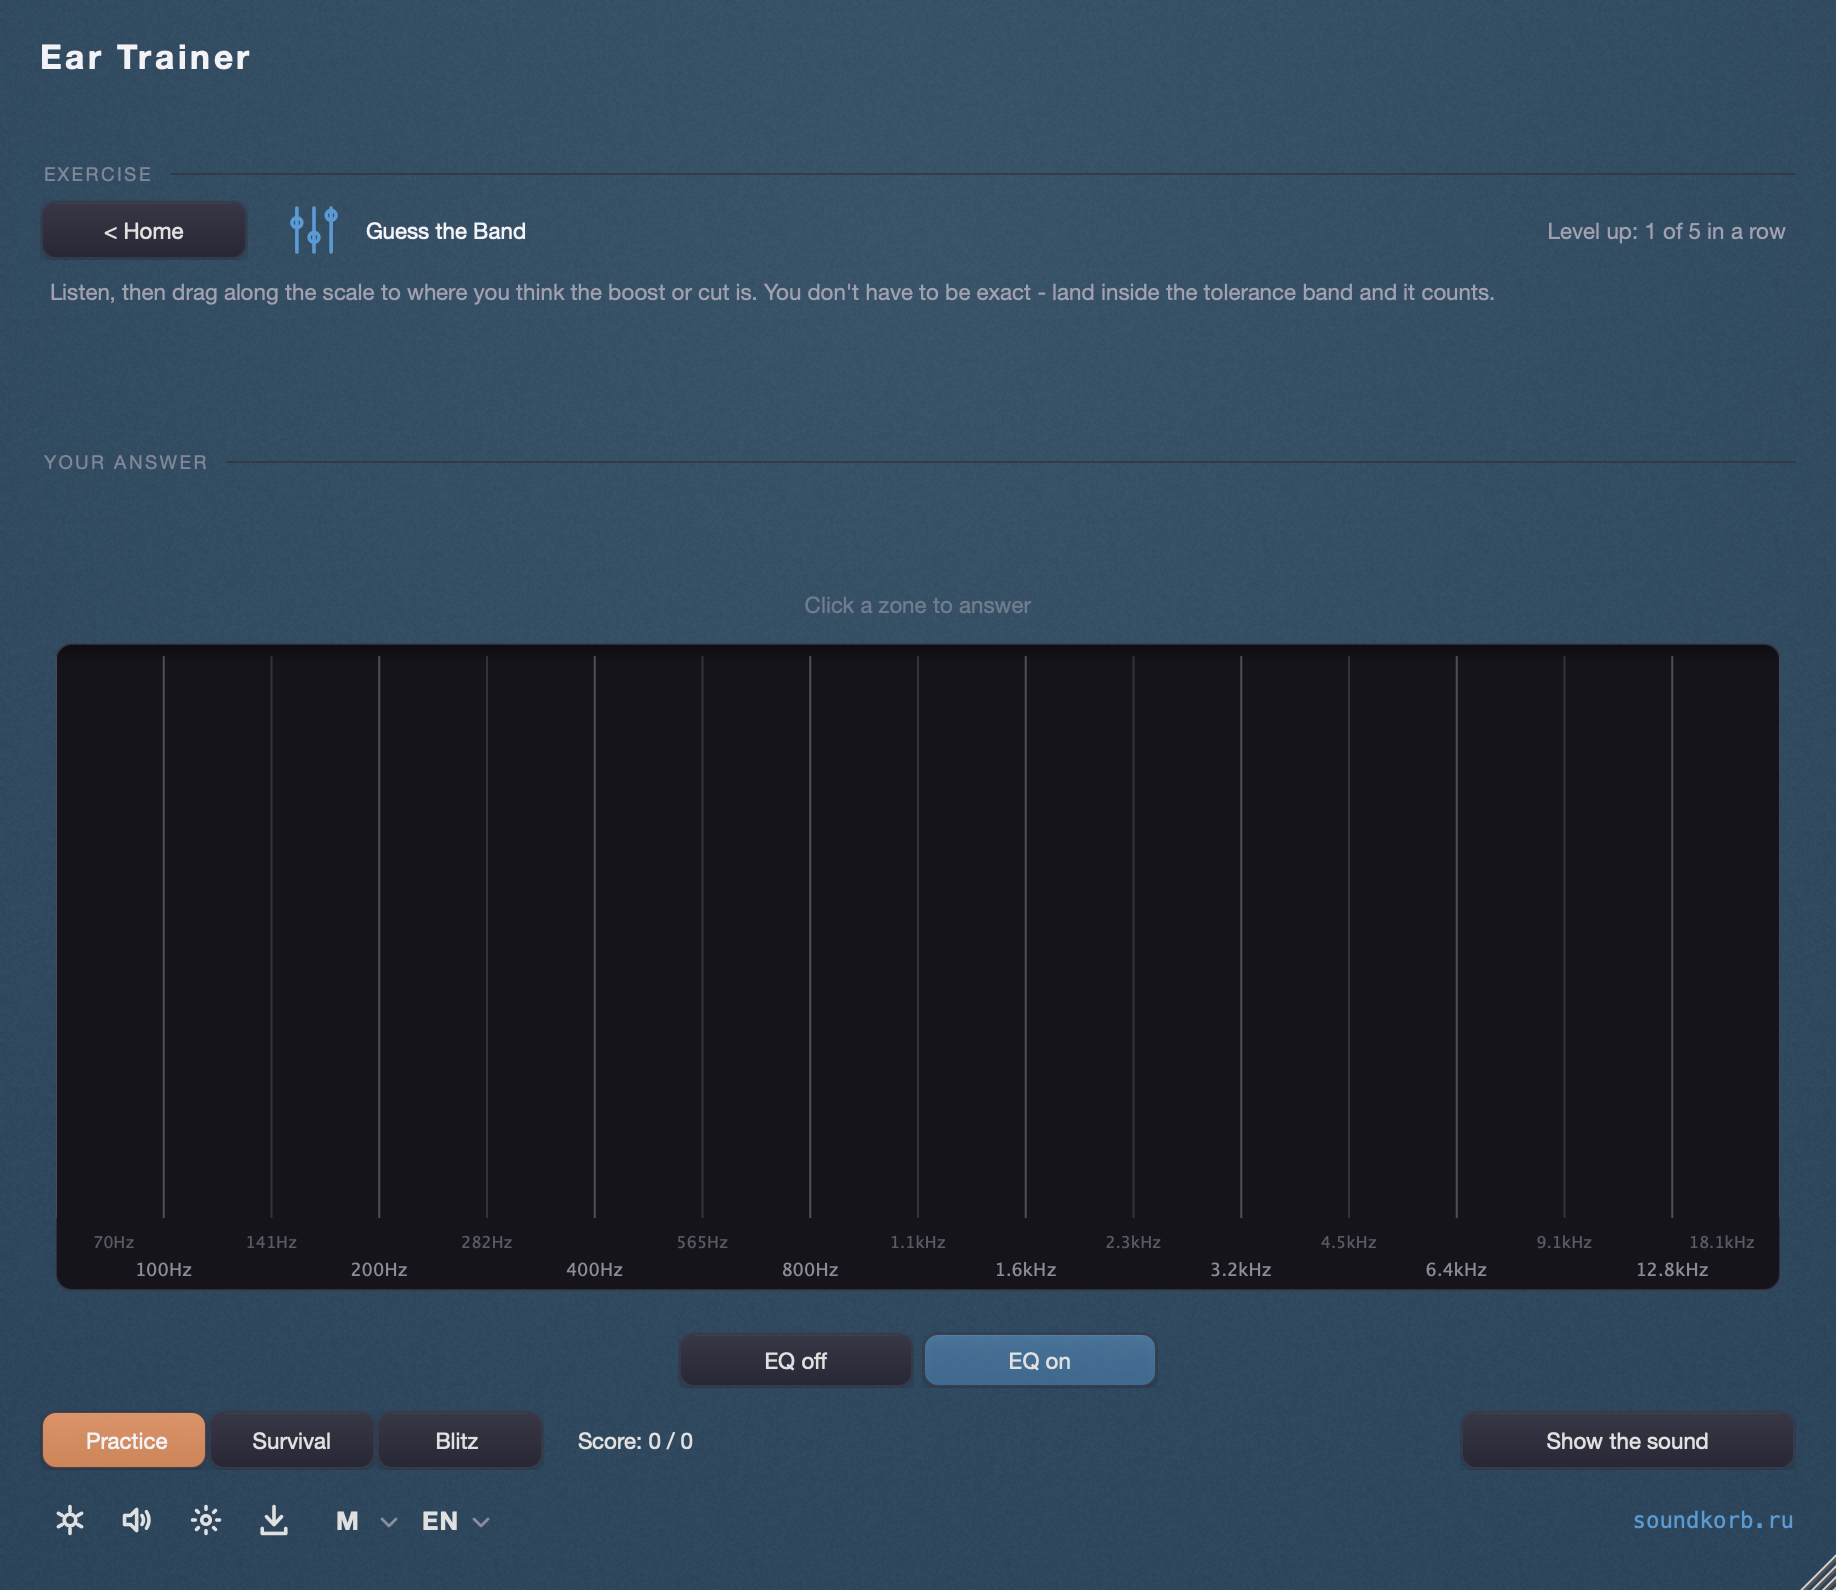
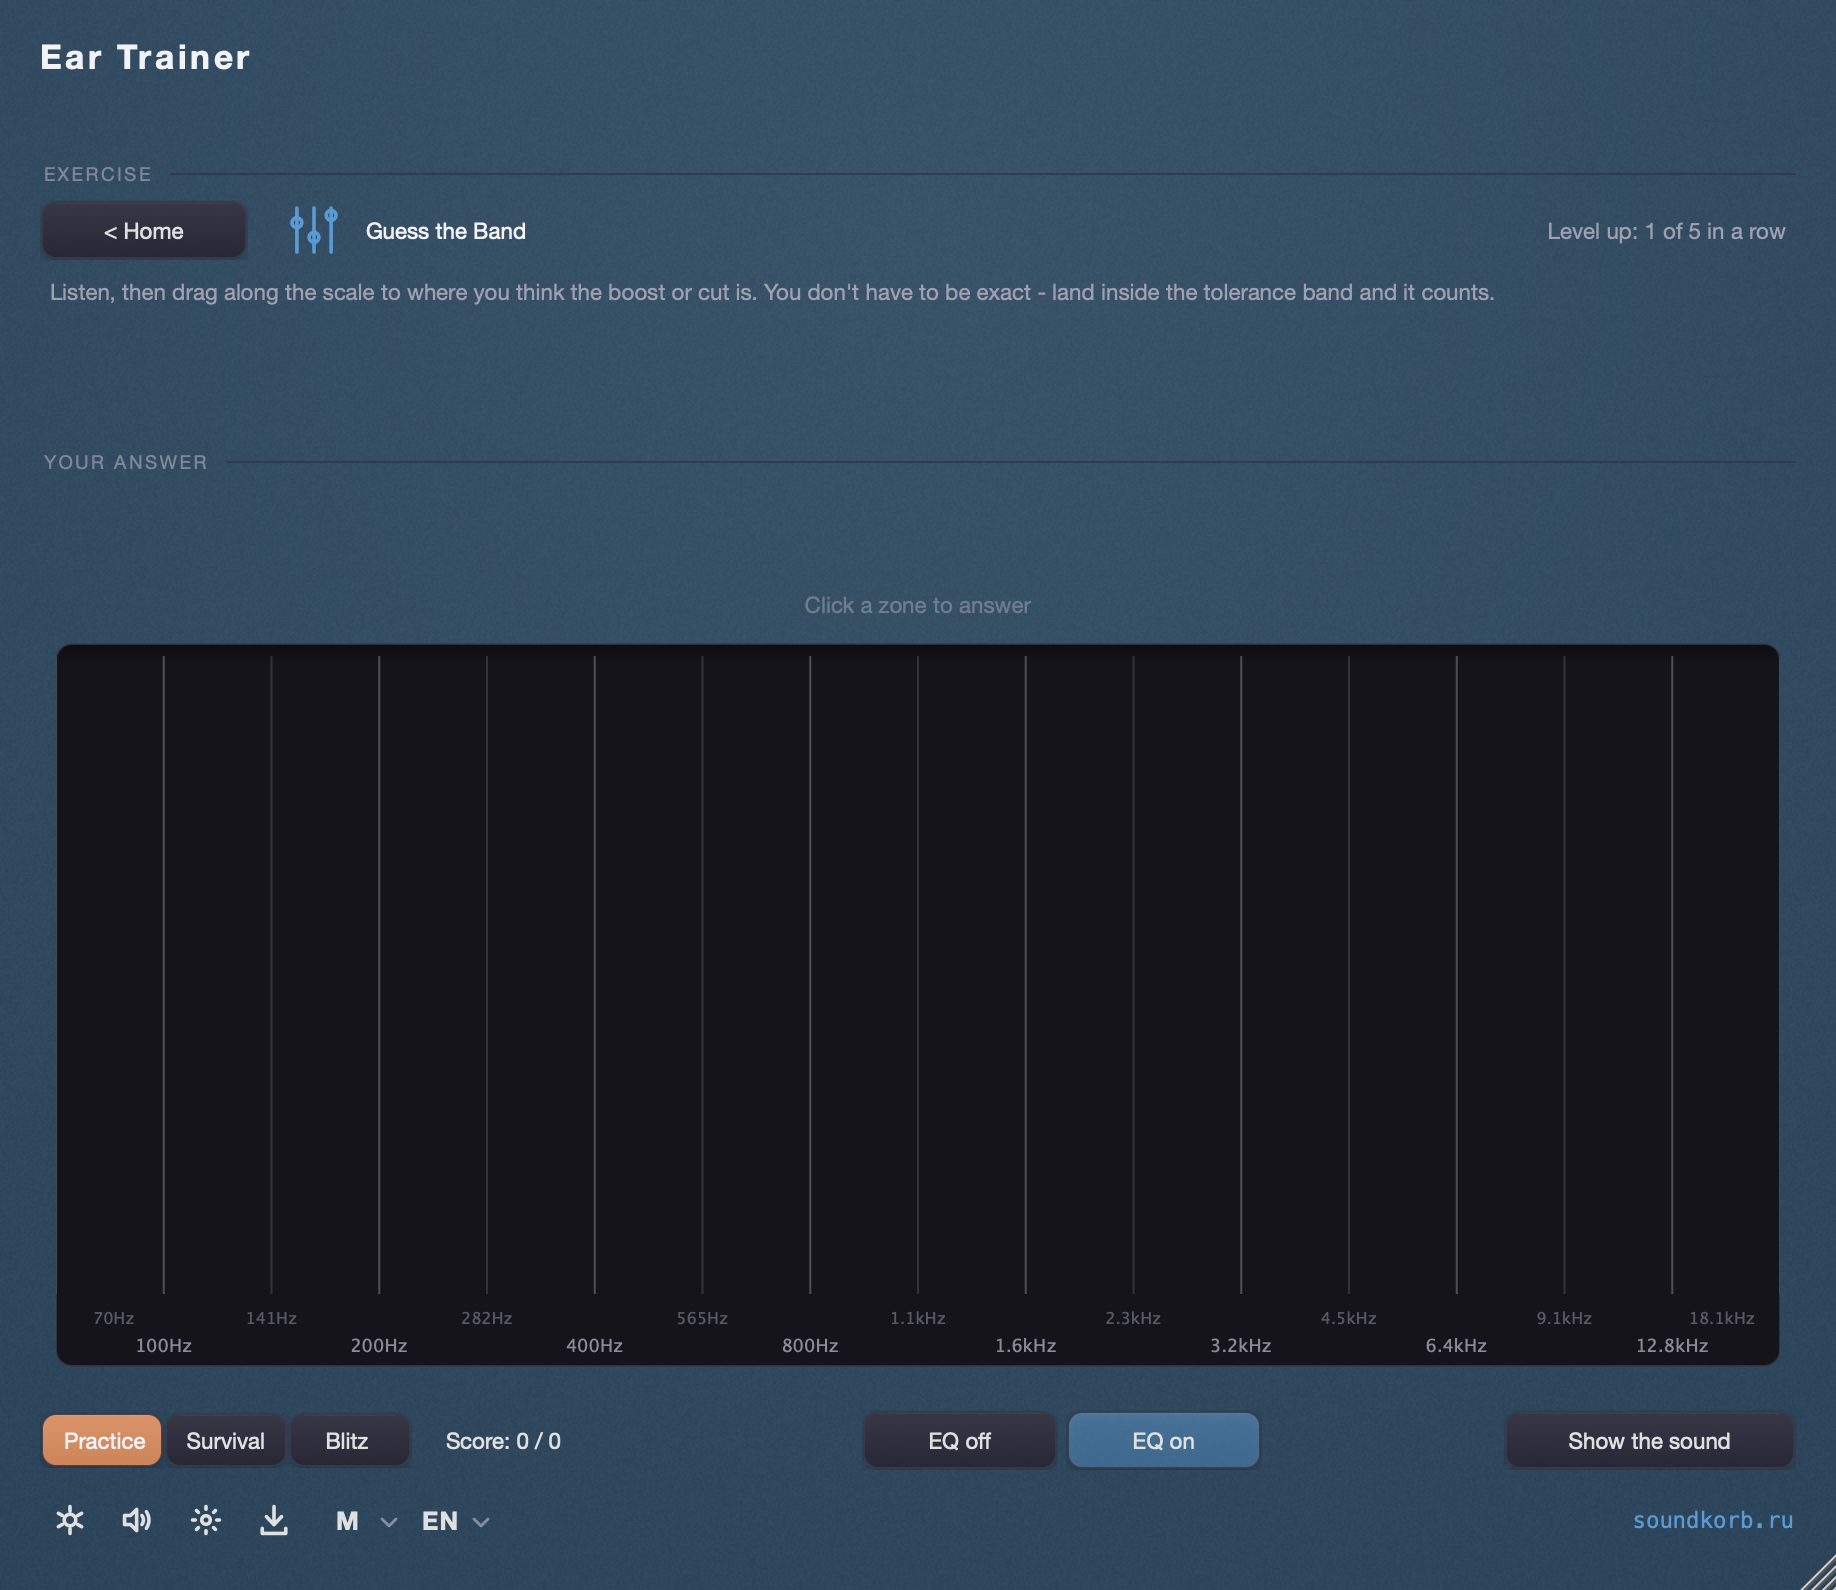
A/B and the modes share one row
They had a row each, which made five levels of importance on a screen that
should have four - and the two rows were the same subject anyway: how this
round is being played. One row now: mode pills and the score on the left,
A/B centred directly under the scale it compares, the hint on the right.

Getting five groups into 640 pixels took two honest concessions and one
fix. Narrower pills and a narrower hint button, and the lives/clock
readout no longer reserves width when it has nothing to say - holding 86px
for an empty label in Practice is what pushed "EQ on" underneath "Show the
sound". refreshRunStatus now calls resized() when that emptiness changes,
because otherwise switching to Survival wrote "3 lives" into a
zero-width box.

The fix: the A/B pair had a minimum width wider than the space left over,
and a minimum wider than the space is not a minimum - it is an overlap.
It takes what is there, capped rather than floored.

One thing I tried and backed out of: moving the score up beside the level
progress in the header. It vanished, I could not see why from the render,
and I was not going to keep guessing at an invisible label - so the score
stayed in the control row where it is verifiably on screen. Recorded
because "it looked cleaner in principle" is not a reason to ship
something I could not confirm.

Changed region(s): [[0.031, 0.7704, 0.9935, 0.9245], [0.031, 0.8937, 0.3725, 0.9245], [0.7761, 0.8937, 0.9314, 0.9245]]

diff --git a/Source/PluginEditor.cpp b/Source/PluginEditor.cpp
@@ -906,54 +906,74 @@ void EarTrainerEditor::resized()
         feedbackLabel.setBounds (inner.removeFromTop (24));
         inner.removeFromTop (Spacing::tight);
 
-        // The rows under the scale are taken off the *bottom* first, so the
-        // scale can then have everything between. Laying them out top-down
-        // with fixed heights is what left a tall window with a strip of
-        // controls and a field of nothing under it.
-        auto bottomRow = inner.removeFromBottom (34);
-        inner.removeFromBottom (Spacing::small);
-        auto abRow = inner.removeFromBottom (30);
+        // *One* row under the scale, not two.
+        //
+        // A/B sat on its own row and the mode pills on another, which made
+        // five levels of importance on a screen that should have four - and
+        // the two are the same kind of thing anyway: how this round is being
+        // played. Narrower pills and a narrower hint button pay for it.
+        //
+        // Taken off the bottom first so the scale can then have everything
+        // between. Laying these out top-down with fixed heights is what left
+        // a tall window with a strip of controls and a field of nothing
+        // under it.
+        auto controlRow = inner.removeFromBottom (34);
         inner.removeFromBottom (Spacing::medium);
 
-        // The scale needs real height to read as a panel of zones rather
-        // than a thin strip: 40px of it is the value readout and 18px the
-        // caption, so anything under ~120 leaves the zones too shallow to
-        // fit staggered labels. Found by building it at 92 and looking.
-        // Taller than the 150 it started at: the zoned panel is the thing
-        // you actually work with on this screen, and the space came from
-        // padding that was doing nothing.
         // Everything that is left, floored at the height the zones need to
-        // stay legible. This is the control the screen exists for, so it is
-        // the one that should get the room - a taller scale is a more
-        // precise scale, and there is nothing else here that improves by
-        // being taller.
+        // stay legible: 40px of the scale is its value readout and 18 the
+        // caption, so under ~120 the zones are too shallow for staggered
+        // labels. This is the control the screen exists for, so it is the
+        // one that should get the room - a taller scale is a more precise
+        // scale, and nothing else here improves by being taller.
         choiceSlider.setBounds (inner.withHeight (juce::jmax (186, inner.getHeight()))
                                      .reduced (Spacing::small, 0));
 
-        // A/B on its own centred row under the scale.
         {
-            auto centred = abRow.withSizeKeepingCentre (240, 28);
-            restartButton.setBounds (centred.withSizeKeepingCentre (160, 28));
+            // Modes left, narrow and quiet: chosen once a session. The hint
+            // right, where a choice you spend something on belongs. A/B in
+            // the middle, directly under the scale it compares - it is the
+            // control touched most often, so it gets the centre.
+            const auto pillWidth = 62;
 
-            beforeButton.setBounds (centred.removeFromLeft (118));
+            for (auto* pill : { &practiceButton, &survivalButton, &blitzButton })
+                pill->setBounds (controlRow.removeFromLeft (pillWidth)
+                                     .withSizeKeepingCentre (pillWidth, 28));
+
+            // Score and the lives/clock readout ride along with the modes:
+            // they say how *this* run is going, which is the same subject
+            // the pills set.
+            controlRow.removeFromLeft (Spacing::medium);
+            scoreLabel.setBounds (controlRow.removeFromLeft (92));
+
+            // Only reserve width for the lives/clock readout when there is
+            // one. In Practice there is nothing to report, and holding 86px
+            // for an empty label is what pushed A/B into the hint button -
+            // five groups do not fit in this row at the design width unless
+            // the empty one gives its space back.
+            runStatusLabel.setBounds (runStatusLabel.getText().isNotEmpty()
+                                          ? controlRow.removeFromLeft (78)
+                                          : juce::Rectangle<int>());
+
+            // The hint used to be a 30px glyph with a caption beside it, and
+            // the glyph read as a "no entry" sign - so the one control you
+            // reach for when stuck looked disabled and unlabelled. It is one
+            // button now, with its price written on it.
+            hintButton.setBounds (controlRow.removeFromRight (146)
+                                      .withSizeKeepingCentre (146, 30));
+
+            // No floor: a minimum wider than the space left is a minimum
+            // that overlaps its neighbours instead of shrinking.
+            auto centred = controlRow.withSizeKeepingCentre (
+                juce::jmin (200, controlRow.getWidth() - Spacing::medium * 2), 30);
+
+            restartButton.setBounds (centred.withSizeKeepingCentre (160, 30));
+
+            const auto half = (centred.getWidth() - Spacing::tight) / 2;
+            beforeButton.setBounds (centred.removeFromLeft (half));
             centred.removeFromLeft (Spacing::tight);
             afterButton.setBounds (centred);
         }
-        // The hint used to be a 30px glyph with a separate caption beside
-        // it, and the glyph read as a "no entry" sign - so the one control
-        // you reach for when stuck looked disabled and unlabelled. It is
-        // one button now, with its own price written on it.
-        hintButton.setBounds (bottomRow.removeFromRight (168).withSizeKeepingCentre (168, 30));
-        bottomRow.removeFromRight (Spacing::medium);
-
-        const auto pillWidth = 84;
-        practiceButton.setBounds (bottomRow.removeFromLeft (pillWidth).withSizeKeepingCentre (pillWidth, 30));
-        survivalButton.setBounds (bottomRow.removeFromLeft (pillWidth).withSizeKeepingCentre (pillWidth, 30));
-        blitzButton.setBounds (bottomRow.removeFromLeft (pillWidth).withSizeKeepingCentre (pillWidth, 30));
-
-        bottomRow.removeFromLeft (Spacing::medium);
-        runStatusLabel.setBounds (bottomRow.removeFromRight (96));
-        scoreLabel.setBounds (bottomRow);
     }
 
     area.removeFromTop (Spacing::large);
@@ -1254,6 +1274,11 @@ void EarTrainerEditor::clearHint()
 
 void EarTrainerEditor::refreshRunStatus()
 {
+    // Whether this label has text decides whether the control row reserves
+    // width for it, so a mode change has to re-lay the row out. Without
+    // this, switching to Survival wrote "3 lives" into a zero-width box.
+    const auto hadText = runStatusLabel.getText().isNotEmpty();
+
     const auto mode = session.getMode();
 
     const auto& theme = AbcTrainTheme::current();
@@ -1262,6 +1287,10 @@ void EarTrainerEditor::refreshRunStatus()
     {
         runStatusLabel.setText ({}, juce::dontSendNotification);
         runStatusLabel.setColour (juce::Label::textColourId, theme.text);
+
+        if (hadText)
+            resized();
+
         return;
     }
 
@@ -1301,6 +1330,8 @@ void EarTrainerEditor::refreshRunStatus()
                              juce::dontSendNotification);
     runStatusLabel.setColour (juce::Label::textColourId,
                                seconds <= 10 ? theme.negative : theme.text);
+    if (! hadText)
+        resized();
 }
 
 void EarTrainerEditor::paintOverChildren (juce::Graphics& g)
